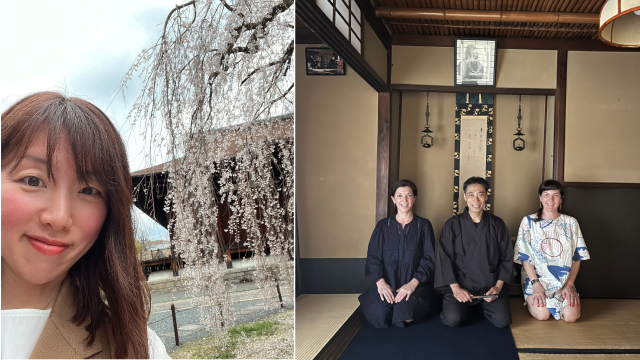
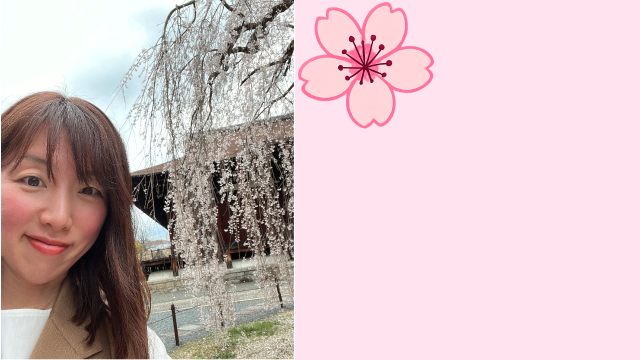
Add files via upload

diff --git a/en/yukari/index.html b/en/yukari/index.html
@@ -89,7 +89,7 @@
     <img src="5-thumb.jpg" data-src="5.jpg" loading="lazy">
     <img src="6-thumb.jpg" data-src="6.jpg" loading="lazy">
     <img src="7-thumb.jpg" data-src="7.jpg" loading="lazy">
-    <img src="8-thumb.jpg" data-src="8.jpg" loading="lazy">
+    <img src="../../img/0.jpg">
   </div>
 </div>
 </div>
@@ -142,11 +142,11 @@
   </tr>
   <tr>
     <th>Main Service Areas</th>
-    <td>Kyoto, Osaka, Tokyo, Hiroshima, Nikko, Hakone, Takayama, Kanazawa</td>
+    <td>Kyoto, Osaka, Nara</td>
   </tr>
   <tr>
     <th>Other Service Areas</th>
-    <td>I know Japan from north to south — I will accompany you on an unforgettable journey across the entire country.</td>
+    <td>I will accompany you on an unforgettable journey across the entire Kyoto.</td>
   </tr>
   <tr>
     <th>Languages</th>
